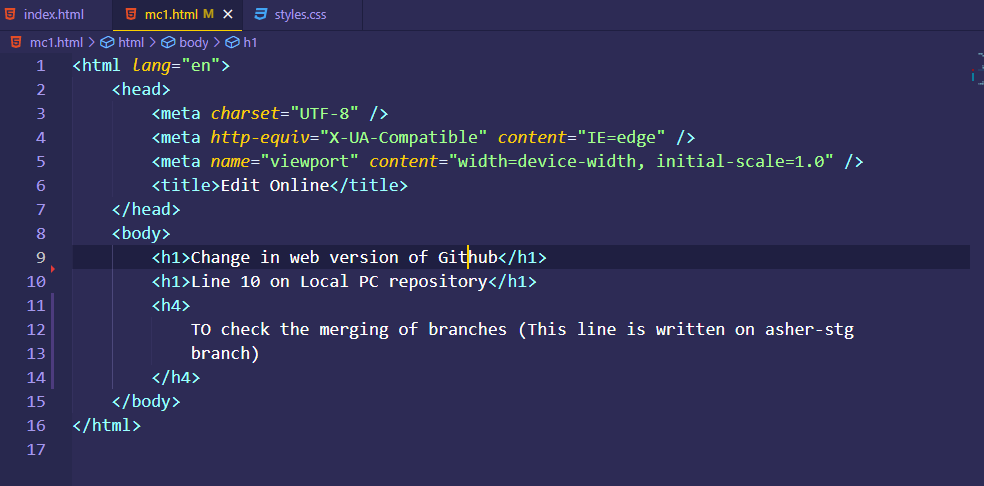
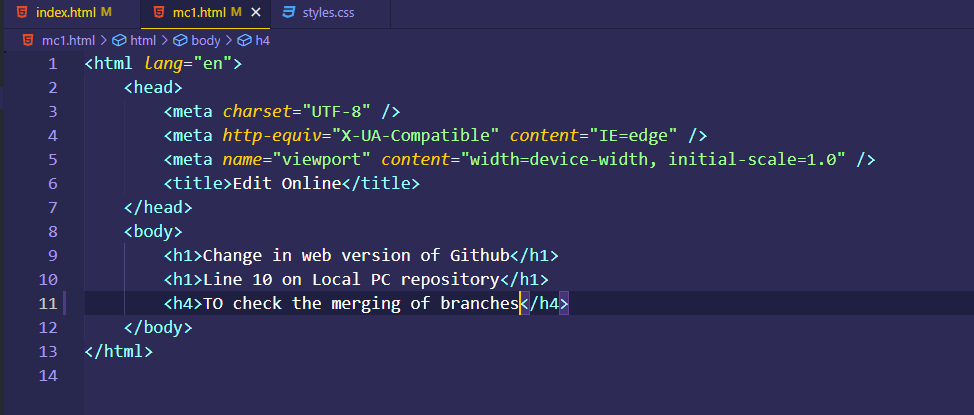
Commit added to merge different branches

diff --git a/index.html b/index.html
@@ -88,7 +88,12 @@
 <h4>11. Git Branch </h4>
 <h5>Create a Branch</h5>
 <p>When you're working on a project, you're going to have a bunch of different features or ideas in progress at any given time – some of which are ready to go, and others which are not. Branching exists to help you manage this workflow.</p>
-<img src="./images/img23.PNG" alt="Git log" >
+<img src="./images/img24.PNG" alt="Git branch" >
+<h5>Create a Branch</h5>
+<img src="./images/img25.PNG" alt="Create a Branch" >
+<img src="./images/img26.PNG" alt="To merge a Branch" >
+<h5>Commit Added</h5>
+<img src="./images/img27.PNG" alt="Commit Added" >
 
 
 </body>

diff --git a/mc1.html b/mc1.html
@@ -8,9 +8,6 @@
 	<body>
 		<h1>Change in web version of Github</h1>
 		<h1>Line 10 on Local PC repository</h1>
-		<h4>
-			TO check the merging of branches (This line is written on asher-stg
-			branch)
-		</h4>
+		<h4>TO check the merging of branches</h4>
 	</body>
 </html>
